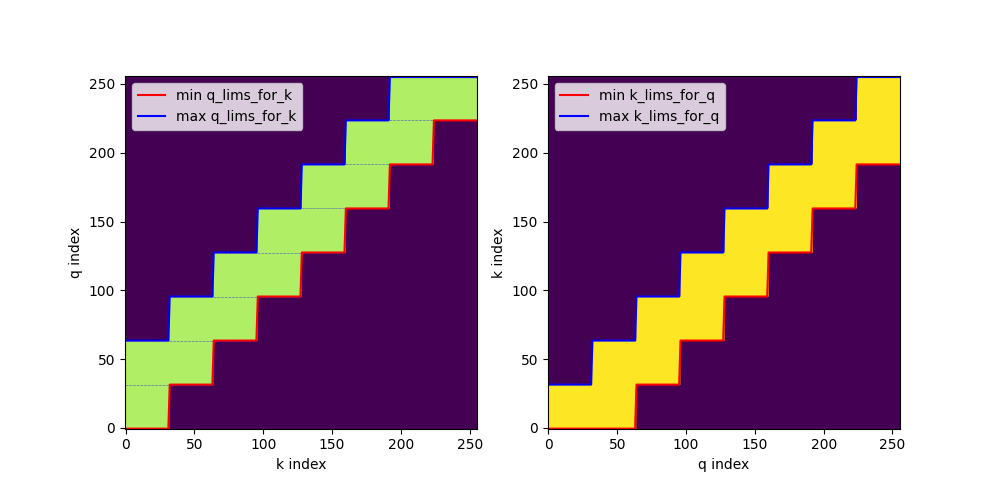
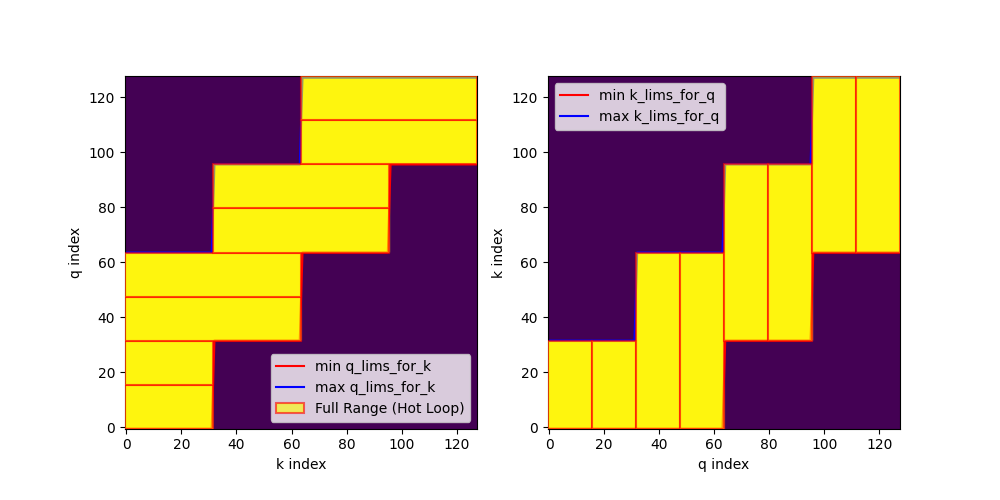
fix

diff --git a/benchmark/results/results.html b/benchmark/results/results.html
@@ -1,3 +1,2 @@
 <html><body>
-<image src="result-nv-8_0-fwd-small-PrefixLMChillMask(128)-dim-64-heads-12-batch-64.png"/>
 </body></html>

diff --git a/chill_attention/mask.py b/chill_attention/mask.py
@@ -596,22 +596,38 @@ class ChillMask(ABC):
             for i in range(len(full_ranges)):
                 qb = i * TILE_Q
                 k_start, k_end = full_ranges[i]
+                ks, ke = k_start.item(), k_end.item()
 
-                if k_end > k_start:
+                if ke > ks:
                     # Draw full range background on axes[0] (q on y, k on x)
-                    rect = matplotlib.patches.Rectangle(
-                        (k_start.item() - 0.5, qb - 0.5),
-                        k_end.item() - k_start.item(),
+                    rect0 = matplotlib.patches.Rectangle(
+                        (ks - 0.5, qb - 0.5),
+                        ke - ks,
                         TILE_Q,
-                        color="cyan",
-                        alpha=0.3,
-                        zorder=1,
-                        label="Full Range" if i == 0 else None,
-                        ec="blue",
-                        ls="--",
-                        lw=0.5,
+                        color="yellow",
+                        alpha=0.6,
+                        zorder=4,
+                        label="Full Range (Hot Loop)" if i == 0 else None,
+                        ec="red",
+                        ls="-",
+                        lw=1.5,
                     )
-                    axes[0].add_patch(rect)
+                    axes[0].add_patch(rect0)
+
+                    # Draw full range background on axes[1] (k on y, q on x)
+                    rect1 = matplotlib.patches.Rectangle(
+                        (qb - 0.5, ks - 0.5),
+                        TILE_Q,
+                        ke - ks,
+                        color="yellow",
+                        alpha=0.6,
+                        zorder=4,
+                        ec="red",
+                        ls="-",
+                        lw=1.5,
+                    )
+                    axes[1].add_patch(rect1)
+            axes[0].legend()
 
         axes[1].legend()
         return fig

diff --git a/plot_to_assets.py b/plot_to_assets.py
@@ -23,8 +23,17 @@ def plot_all_to_assets():
     
     for mask in masks:
         print(f"Plotting {mask}...")
-        # Plot with full range highlights
-        fig = mask.plot(max_pos=256, plot_block_types=True, TILE_Q=32, TILE_K=32)
+        # Use smaller max_pos and TILE_Q to make highlights more visible
+        max_pos = 128
+        TILE_Q = 16
+        TILE_K = 16
+        
+        if mask.has_k_full_range():
+            # Debug: print full ranges
+            ranges = mask._calc_full_ranges(max_pos, TILE_Q)
+            print(f"Full ranges for {mask.name}:\n{ranges}")
+
+        fig = mask.plot(max_pos=max_pos, plot_block_types=True, TILE_Q=TILE_Q, TILE_K=TILE_K)
         save_path = os.path.join(assets_dir, f"mask_{mask.name.lower()}.png")
         fig.savefig(save_path)
         plt.close(fig)
